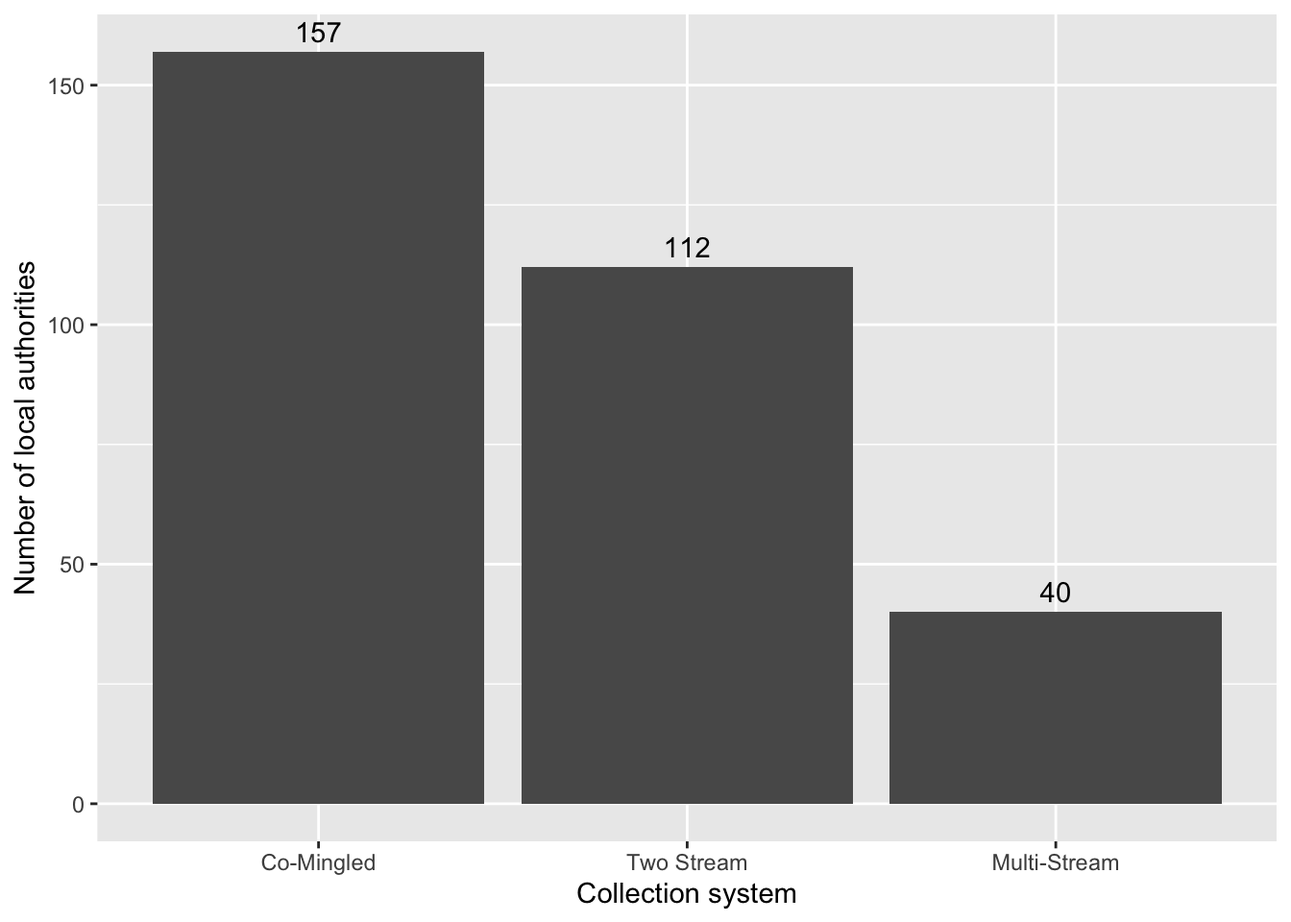
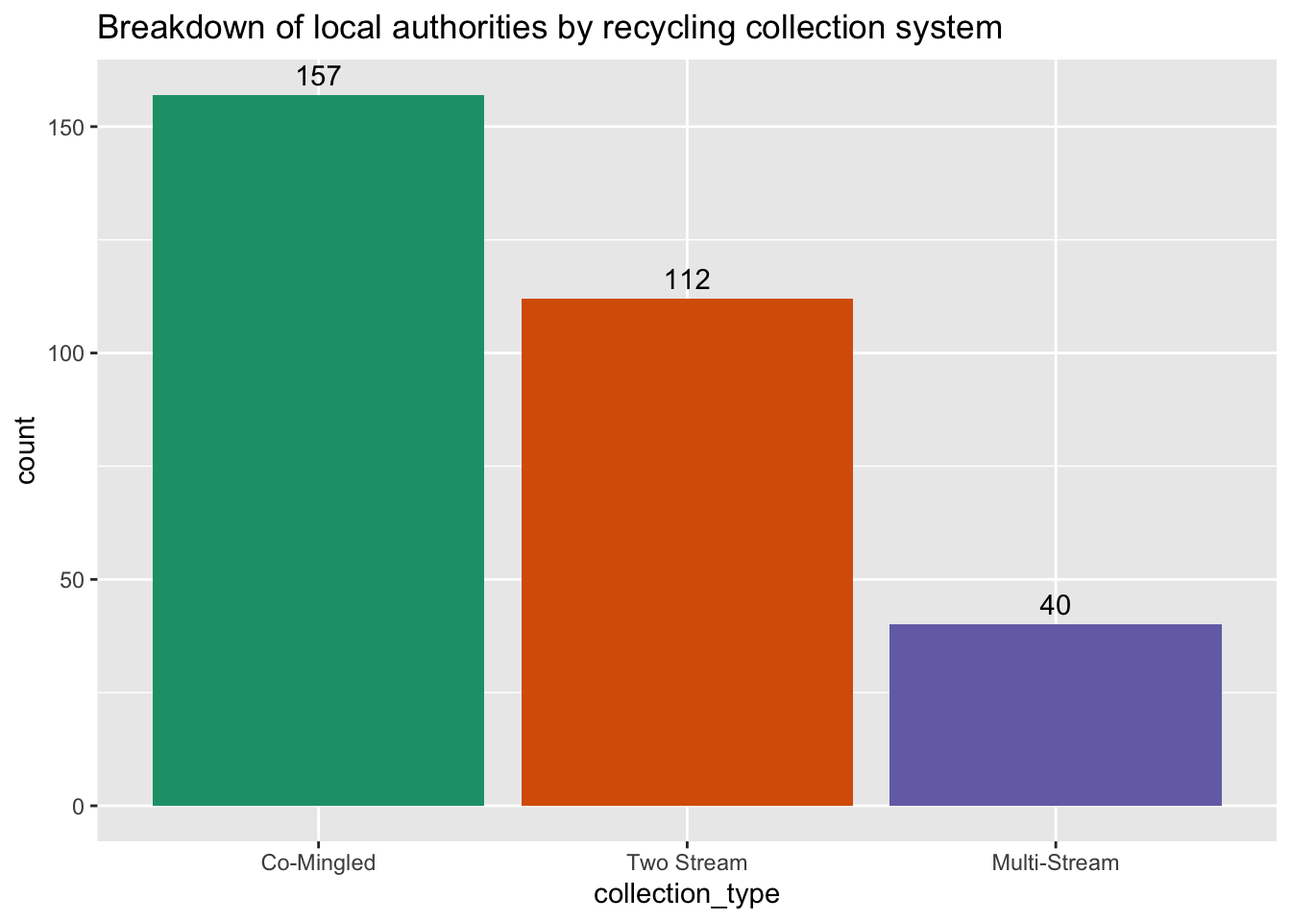
Complete draft analysis

diff --git a/recycling-systems-analysis.html b/recycling-systems-analysis.html
@@ -116,7 +116,7 @@ pre > code.sourceCode > span > a:first-child::before { text-decoration: underlin
 <ul>
 <li><strong>Co-Mingled:</strong> all non-organic recyclable material is put into a single bin by the householder</li>
 <li><strong>Two Stream:</strong> non-organic recyclable material must be sorted into two bins by the householder (e.g.&nbsp;one bin for glass and metal, and a second bin for paper, card and plastic)</li>
-<li><strong>Multi-stream:</strong> householders sort their non-organic recyclable material into separate bins for each type of material</li>
+<li><strong>Multi-Stream:</strong> householders sort their non-organic recyclable material into separate bins for each type of material</li>
 </ul>
 <p>Multi-stream systems place a higher burden on the householder, so this paper seeks to investigate whether this higher burden results in higher recycling rates.</p>
 </section>
@@ -127,9 +127,9 @@ pre > code.sourceCode > span > a:first-child::before { text-decoration: underlin
 <div class="cell">
 <div class="code-copy-outer-scaffold"><div class="sourceCode cell-code" id="cb1"><pre class="sourceCode r code-with-copy"><code class="sourceCode r"><span id="cb1-1"><a href="#cb1-1" aria-hidden="true" tabindex="-1"></a><span class="fu">library</span>(here)</span>
 <span id="cb1-2"><a href="#cb1-2" aria-hidden="true" tabindex="-1"></a><span class="fu">library</span>(tidyverse)</span>
-<span id="cb1-3"><a href="#cb1-3" aria-hidden="true" tabindex="-1"></a><span class="fu">library</span>(ggplot2)</span>
-<span id="cb1-4"><a href="#cb1-4" aria-hidden="true" tabindex="-1"></a><span class="fu">library</span>(ggridges)</span>
-<span id="cb1-5"><a href="#cb1-5" aria-hidden="true" tabindex="-1"></a><span class="fu">library</span>(knitr)</span></code></pre></div><button title="Copy to Clipboard" class="code-copy-button"><i class="bi"></i></button></div>
+<span id="cb1-3"><a href="#cb1-3" aria-hidden="true" tabindex="-1"></a><span class="fu">library</span>(knitr)</span>
+<span id="cb1-4"><a href="#cb1-4" aria-hidden="true" tabindex="-1"></a><span class="fu">library</span>(moments)</span>
+<span id="cb1-5"><a href="#cb1-5" aria-hidden="true" tabindex="-1"></a><span class="fu">library</span>(rstatix)</span></code></pre></div><button title="Copy to Clipboard" class="code-copy-button"><i class="bi"></i></button></div>
 </div>
 </section>
 <section id="import-the-recycling-data" class="level2">
@@ -165,13 +165,13 @@ $ household_recycle_rate &lt;dbl&gt; 0.3259759, 0.2975028, 0.3815194, 0.2565815,
 <h2 class="anchored" data-anchor-id="breakdown-of-collection-systems">Breakdown of collection systems</h2>
 <div class="cell">
 <div class="code-copy-outer-scaffold"><div class="sourceCode cell-code" id="cb4"><pre class="sourceCode r code-with-copy"><code class="sourceCode r"><span id="cb4-1"><a href="#cb4-1" aria-hidden="true" tabindex="-1"></a>fig_1 <span class="ot">&lt;-</span> </span>
-<span id="cb4-2"><a href="#cb4-2" aria-hidden="true" tabindex="-1"></a>  <span class="fu">ggplot</span>(recycling, <span class="fu">aes</span>(collection_type)) <span class="sc">+</span></span>
+<span id="cb4-2"><a href="#cb4-2" aria-hidden="true" tabindex="-1"></a>  <span class="fu">ggplot</span>(recycling, <span class="fu">aes</span>(collection_type, <span class="at">fill =</span> collection_type)) <span class="sc">+</span></span>
 <span id="cb4-3"><a href="#cb4-3" aria-hidden="true" tabindex="-1"></a>  <span class="fu">geom_bar</span>() <span class="sc">+</span></span>
 <span id="cb4-4"><a href="#cb4-4" aria-hidden="true" tabindex="-1"></a>  <span class="fu">geom_text</span>(<span class="at">stat =</span> <span class="st">"count"</span>, <span class="fu">aes</span>(<span class="at">label =</span> <span class="fu">after_stat</span>(count)), <span class="at">vjust =</span> <span class="sc">-</span><span class="fl">0.5</span>) <span class="sc">+</span></span>
 <span id="cb4-5"><a href="#cb4-5" aria-hidden="true" tabindex="-1"></a>  <span class="fu">labs</span>(</span>
-<span id="cb4-6"><a href="#cb4-6" aria-hidden="true" tabindex="-1"></a>    <span class="at">x =</span> <span class="st">"Collection system"</span>,</span>
-<span id="cb4-7"><a href="#cb4-7" aria-hidden="true" tabindex="-1"></a>    <span class="at">y =</span> <span class="st">"Number of local authorities"</span></span>
-<span id="cb4-8"><a href="#cb4-8" aria-hidden="true" tabindex="-1"></a>  )</span>
+<span id="cb4-6"><a href="#cb4-6" aria-hidden="true" tabindex="-1"></a>    <span class="at">title =</span> <span class="st">"Breakdown of local authorities by recycling collection system"</span></span>
+<span id="cb4-7"><a href="#cb4-7" aria-hidden="true" tabindex="-1"></a>  ) <span class="sc">+</span></span>
+<span id="cb4-8"><a href="#cb4-8" aria-hidden="true" tabindex="-1"></a>  <span class="fu">scale_fill_brewer</span>(<span class="at">palette =</span> <span class="st">"Dark2"</span>, <span class="at">guide =</span> <span class="st">"none"</span>)</span>
 <span id="cb4-9"><a href="#cb4-9" aria-hidden="true" tabindex="-1"></a></span>
 <span id="cb4-10"><a href="#cb4-10" aria-hidden="true" tabindex="-1"></a>fig_1</span></code></pre></div><button title="Copy to Clipboard" class="code-copy-button"><i class="bi"></i></button></div>
 <div class="cell-output-display">
@@ -188,23 +188,185 @@ $ household_recycle_rate &lt;dbl&gt; 0.3259759, 0.2975028, 0.3815194, 0.2565815,
 <h2 class="anchored" data-anchor-id="distribution-of-recycling-rates-by-system">Distribution of recycling rates by system</h2>
 <div class="cell">
 <div class="code-copy-outer-scaffold"><div class="sourceCode cell-code" id="cb5"><pre class="sourceCode r code-with-copy"><code class="sourceCode r"><span id="cb5-1"><a href="#cb5-1" aria-hidden="true" tabindex="-1"></a>fig_2 <span class="ot">&lt;-</span> </span>
-<span id="cb5-2"><a href="#cb5-2" aria-hidden="true" tabindex="-1"></a>  <span class="fu">ggplot</span>(recycling, <span class="fu">aes</span>(<span class="at">x =</span> collection_type, <span class="at">y =</span> household_recycle_rate)) <span class="sc">+</span></span>
-<span id="cb5-3"><a href="#cb5-3" aria-hidden="true" tabindex="-1"></a>  <span class="fu">geom_boxplot</span>(<span class="at">outlier.shape =</span> <span class="cn">NA</span>) <span class="sc">+</span></span>
-<span id="cb5-4"><a href="#cb5-4" aria-hidden="true" tabindex="-1"></a>  <span class="fu">geom_jitter</span>(<span class="at">width =</span> <span class="fl">0.2</span>, <span class="at">alpha =</span> <span class="fl">0.3</span>) <span class="sc">+</span></span>
-<span id="cb5-5"><a href="#cb5-5" aria-hidden="true" tabindex="-1"></a>  <span class="fu">stat_summary</span>(<span class="at">fun =</span> mean, <span class="at">geom =</span> <span class="st">"point"</span>, <span class="at">shape =</span> <span class="dv">18</span>, <span class="at">size =</span> <span class="dv">3</span>) <span class="sc">+</span></span>
-<span id="cb5-6"><a href="#cb5-6" aria-hidden="true" tabindex="-1"></a>  <span class="fu">labs</span>(<span class="at">x =</span> <span class="st">"Collection system"</span>, <span class="at">y =</span> <span class="st">"Household recycling rate"</span>) <span class="sc">+</span></span>
-<span id="cb5-7"><a href="#cb5-7" aria-hidden="true" tabindex="-1"></a>  <span class="fu">scale_y_continuous</span>(<span class="at">labels =</span> scales<span class="sc">::</span>percent)</span>
-<span id="cb5-8"><a href="#cb5-8" aria-hidden="true" tabindex="-1"></a></span>
-<span id="cb5-9"><a href="#cb5-9" aria-hidden="true" tabindex="-1"></a>fig_2</span></code></pre></div><button title="Copy to Clipboard" class="code-copy-button"><i class="bi"></i></button></div>
+<span id="cb5-2"><a href="#cb5-2" aria-hidden="true" tabindex="-1"></a>  <span class="fu">ggplot</span>(recycling, <span class="fu">aes</span>(<span class="at">x =</span> collection_type, <span class="at">y =</span> household_recycle_rate, <span class="at">colour =</span> collection_type)) <span class="sc">+</span></span>
+<span id="cb5-3"><a href="#cb5-3" aria-hidden="true" tabindex="-1"></a>  <span class="fu">labs</span>(</span>
+<span id="cb5-4"><a href="#cb5-4" aria-hidden="true" tabindex="-1"></a>    <span class="at">x =</span> <span class="st">"Collection type"</span>,</span>
+<span id="cb5-5"><a href="#cb5-5" aria-hidden="true" tabindex="-1"></a>    <span class="at">y =</span> <span class="st">"Household recycling rate"</span>,</span>
+<span id="cb5-6"><a href="#cb5-6" aria-hidden="true" tabindex="-1"></a>    <span class="at">title =</span> <span class="st">"Distribution of recycling rates by collection system"</span>,</span>
+<span id="cb5-7"><a href="#cb5-7" aria-hidden="true" tabindex="-1"></a>    <span class="at">caption =</span> <span class="st">"Box shows median and interquartile range; diamond shows the mean"</span></span>
+<span id="cb5-8"><a href="#cb5-8" aria-hidden="true" tabindex="-1"></a>  ) <span class="sc">+</span></span>
+<span id="cb5-9"><a href="#cb5-9" aria-hidden="true" tabindex="-1"></a>  <span class="fu">scale_y_continuous</span>(<span class="at">labels =</span> scales<span class="sc">::</span>percent) <span class="sc">+</span></span>
+<span id="cb5-10"><a href="#cb5-10" aria-hidden="true" tabindex="-1"></a>  <span class="fu">scale_color_brewer</span>(<span class="at">palette =</span> <span class="st">"Dark2"</span>, <span class="at">guide =</span> <span class="st">"none"</span>)</span>
+<span id="cb5-11"><a href="#cb5-11" aria-hidden="true" tabindex="-1"></a></span>
+<span id="cb5-12"><a href="#cb5-12" aria-hidden="true" tabindex="-1"></a>fig_2 <span class="sc">+</span></span>
+<span id="cb5-13"><a href="#cb5-13" aria-hidden="true" tabindex="-1"></a>  <span class="fu">geom_violin</span>(<span class="fu">aes</span>(<span class="at">fill =</span> collection_type), <span class="at">linewidth =</span> <span class="dv">1</span>, <span class="at">alpha =</span> <span class="fl">0.5</span>)<span class="sc">+</span></span>
+<span id="cb5-14"><a href="#cb5-14" aria-hidden="true" tabindex="-1"></a>  <span class="fu">geom_boxplot</span>(<span class="at">outlier.alpha =</span> <span class="dv">0</span>, <span class="at">coef =</span> <span class="dv">0</span>,</span>
+<span id="cb5-15"><a href="#cb5-15" aria-hidden="true" tabindex="-1"></a>               <span class="at">colour =</span> <span class="st">"grey40"</span>, <span class="at">width =</span> <span class="fl">0.2</span>) <span class="sc">+</span></span>
+<span id="cb5-16"><a href="#cb5-16" aria-hidden="true" tabindex="-1"></a>  <span class="fu">scale_fill_brewer</span>(<span class="at">palette =</span> <span class="st">"Dark2"</span>, <span class="at">guide =</span> <span class="st">"none"</span>) <span class="sc">+</span></span>
+<span id="cb5-17"><a href="#cb5-17" aria-hidden="true" tabindex="-1"></a>  <span class="fu">coord_flip</span>() <span class="sc">+</span></span>
+<span id="cb5-18"><a href="#cb5-18" aria-hidden="true" tabindex="-1"></a>  <span class="fu">stat_summary</span>(<span class="at">fun =</span> mean, <span class="at">geom =</span> <span class="st">"point"</span>, <span class="at">shape =</span> <span class="dv">18</span>, <span class="at">size =</span> <span class="dv">3</span>)</span></code></pre></div><button title="Copy to Clipboard" class="code-copy-button"><i class="bi"></i></button></div>
 <div class="cell-output-display">
 <div>
 <figure class="figure">
-<p><img src="recycling-systems-analysis_files/figure-html/box-plot-recycle-rates-1.png" class="img-fluid figure-img" width="672"></p>
+<p><img src="recycling-systems-analysis_files/figure-html/violin-plot-recycle-rates-1.png" class="img-fluid figure-img" width="672"></p>
 </figure>
 </div>
 </div>
 </div>
+<div class="cell">
+<div class="code-copy-outer-scaffold"><div class="sourceCode cell-code" id="cb6"><pre class="sourceCode r code-with-copy"><code class="sourceCode r"><span id="cb6-1"><a href="#cb6-1" aria-hidden="true" tabindex="-1"></a>tbl_1 <span class="ot">&lt;-</span> recycling <span class="sc">|&gt;</span> </span>
+<span id="cb6-2"><a href="#cb6-2" aria-hidden="true" tabindex="-1"></a>  <span class="fu">group_by</span>(collection_type) <span class="sc">|&gt;</span> </span>
+<span id="cb6-3"><a href="#cb6-3" aria-hidden="true" tabindex="-1"></a>  <span class="fu">summarise</span>(</span>
+<span id="cb6-4"><a href="#cb6-4" aria-hidden="true" tabindex="-1"></a>    <span class="at">mean =</span> <span class="fu">mean</span>(household_recycle_rate, <span class="at">na.rm =</span> <span class="cn">TRUE</span>),</span>
+<span id="cb6-5"><a href="#cb6-5" aria-hidden="true" tabindex="-1"></a>    <span class="at">median =</span> <span class="fu">median</span>(household_recycle_rate, <span class="at">na.rm =</span> <span class="cn">TRUE</span>),</span>
+<span id="cb6-6"><a href="#cb6-6" aria-hidden="true" tabindex="-1"></a>    <span class="at">sd =</span> <span class="fu">sd</span>(household_recycle_rate, <span class="at">na.rm =</span> <span class="cn">TRUE</span>),</span>
+<span id="cb6-7"><a href="#cb6-7" aria-hidden="true" tabindex="-1"></a>    <span class="at">skew =</span> <span class="fu">skewness</span>(household_recycle_rate)</span>
+<span id="cb6-8"><a href="#cb6-8" aria-hidden="true" tabindex="-1"></a>  )</span>
+<span id="cb6-9"><a href="#cb6-9" aria-hidden="true" tabindex="-1"></a></span>
+<span id="cb6-10"><a href="#cb6-10" aria-hidden="true" tabindex="-1"></a>tbl_1</span></code></pre></div><button title="Copy to Clipboard" class="code-copy-button"><i class="bi"></i></button></div>
+<div class="cell-output cell-output-stdout">
+<pre><code># A tibble: 3 × 5
+  collection_type  mean median     sd    skew
+  &lt;fct&gt;           &lt;dbl&gt;  &lt;dbl&gt;  &lt;dbl&gt;   &lt;dbl&gt;
+1 Co-Mingled      0.407  0.403 0.0992  0.215 
+2 Two Stream      0.432  0.443 0.0946 -0.129 
+3 Multi-Stream    0.454  0.445 0.0858 -0.0379</code></pre>
+</div>
+</div>
+<p>From the distribution plot and the summary table, we can see that multi-stream collection systems achieved the highest man and median recycling rate in 2021, and co-mingled systems achieved the lowest rates. The skew number tells us that the distributions are not normal. Co-mingled systems show a positive skew, while two stream and multi-stream both show a negative skew.</p>
 </section>
+<section id="distribution-of-household-waste-collected" class="level2">
+<h2 class="anchored" data-anchor-id="distribution-of-household-waste-collected">Distribution of household waste collected</h2>
+<p>Given that our measure of interest, <code>household_recycle_rate</code> is itself a calculation (<code>household_recycled</code>/<code>household_collected</code>) we should also check whether the distributions of the underlying components are normal or skewed.</p>
+<div class="cell">
+<div class="code-copy-outer-scaffold"><div class="sourceCode cell-code" id="cb8"><pre class="sourceCode r code-with-copy"><code class="sourceCode r"><span id="cb8-1"><a href="#cb8-1" aria-hidden="true" tabindex="-1"></a>fig_3 <span class="ot">&lt;-</span> </span>
+<span id="cb8-2"><a href="#cb8-2" aria-hidden="true" tabindex="-1"></a>  <span class="fu">ggplot</span>(recycling, <span class="fu">aes</span>(<span class="at">x =</span> collection_type, <span class="at">y =</span> household_collected, <span class="at">colour =</span> collection_type)) <span class="sc">+</span></span>
+<span id="cb8-3"><a href="#cb8-3" aria-hidden="true" tabindex="-1"></a>  <span class="fu">labs</span>(</span>
+<span id="cb8-4"><a href="#cb8-4" aria-hidden="true" tabindex="-1"></a>    <span class="at">x =</span> <span class="st">"Collection type"</span>,</span>
+<span id="cb8-5"><a href="#cb8-5" aria-hidden="true" tabindex="-1"></a>    <span class="at">y =</span> <span class="st">"Household waste collected"</span>,</span>
+<span id="cb8-6"><a href="#cb8-6" aria-hidden="true" tabindex="-1"></a>    <span class="at">title =</span> <span class="st">"Distribution of household waste collected by collection system"</span>,</span>
+<span id="cb8-7"><a href="#cb8-7" aria-hidden="true" tabindex="-1"></a>    <span class="at">caption =</span> <span class="st">"Box shows median and interquartile range; diamond shows the mean"</span></span>
+<span id="cb8-8"><a href="#cb8-8" aria-hidden="true" tabindex="-1"></a>  ) <span class="sc">+</span></span>
+<span id="cb8-9"><a href="#cb8-9" aria-hidden="true" tabindex="-1"></a>  <span class="fu">scale_color_brewer</span>(<span class="at">palette =</span> <span class="st">"Dark2"</span>, <span class="at">guide =</span> <span class="st">"none"</span>)</span>
+<span id="cb8-10"><a href="#cb8-10" aria-hidden="true" tabindex="-1"></a></span>
+<span id="cb8-11"><a href="#cb8-11" aria-hidden="true" tabindex="-1"></a>fig_3 <span class="sc">+</span></span>
+<span id="cb8-12"><a href="#cb8-12" aria-hidden="true" tabindex="-1"></a>  <span class="fu">geom_violin</span>(<span class="fu">aes</span>(<span class="at">fill =</span> collection_type), <span class="at">linewidth =</span> <span class="dv">1</span>, <span class="at">alpha =</span> <span class="fl">0.5</span>)<span class="sc">+</span></span>
+<span id="cb8-13"><a href="#cb8-13" aria-hidden="true" tabindex="-1"></a>  <span class="fu">geom_boxplot</span>(<span class="at">outlier.alpha =</span> <span class="dv">0</span>, <span class="at">coef =</span> <span class="dv">0</span>,</span>
+<span id="cb8-14"><a href="#cb8-14" aria-hidden="true" tabindex="-1"></a>               <span class="at">colour =</span> <span class="st">"grey40"</span>, <span class="at">width =</span> <span class="fl">0.2</span>) <span class="sc">+</span></span>
+<span id="cb8-15"><a href="#cb8-15" aria-hidden="true" tabindex="-1"></a>  <span class="fu">scale_fill_brewer</span>(<span class="at">palette =</span> <span class="st">"Dark2"</span>, <span class="at">guide =</span> <span class="st">"none"</span>) <span class="sc">+</span></span>
+<span id="cb8-16"><a href="#cb8-16" aria-hidden="true" tabindex="-1"></a>  <span class="fu">coord_flip</span>() <span class="sc">+</span></span>
+<span id="cb8-17"><a href="#cb8-17" aria-hidden="true" tabindex="-1"></a>  <span class="fu">stat_summary</span>(<span class="at">fun =</span> mean, <span class="at">geom =</span> <span class="st">"point"</span>, <span class="at">shape =</span> <span class="dv">18</span>, <span class="at">size =</span> <span class="dv">3</span>)</span></code></pre></div><button title="Copy to Clipboard" class="code-copy-button"><i class="bi"></i></button></div>
+<div class="cell-output-display">
+<div>
+<figure class="figure">
+<p><img src="recycling-systems-analysis_files/figure-html/violin-plot-household-collected-1.png" class="img-fluid figure-img" width="672"></p>
+</figure>
+</div>
+</div>
+</div>
+<div class="cell">
+<div class="code-copy-outer-scaffold"><div class="sourceCode cell-code" id="cb9"><pre class="sourceCode r code-with-copy"><code class="sourceCode r"><span id="cb9-1"><a href="#cb9-1" aria-hidden="true" tabindex="-1"></a>tbl_2 <span class="ot">&lt;-</span> recycling <span class="sc">|&gt;</span> </span>
+<span id="cb9-2"><a href="#cb9-2" aria-hidden="true" tabindex="-1"></a>  <span class="fu">group_by</span>(collection_type) <span class="sc">|&gt;</span> </span>
+<span id="cb9-3"><a href="#cb9-3" aria-hidden="true" tabindex="-1"></a>  <span class="fu">summarise</span>(</span>
+<span id="cb9-4"><a href="#cb9-4" aria-hidden="true" tabindex="-1"></a>    <span class="at">mean =</span> <span class="fu">mean</span>(household_collected, <span class="at">na.rm =</span> <span class="cn">TRUE</span>),</span>
+<span id="cb9-5"><a href="#cb9-5" aria-hidden="true" tabindex="-1"></a>    <span class="at">median =</span> <span class="fu">median</span>(household_collected, <span class="at">na.rm =</span> <span class="cn">TRUE</span>),</span>
+<span id="cb9-6"><a href="#cb9-6" aria-hidden="true" tabindex="-1"></a>    <span class="at">sd =</span> <span class="fu">sd</span>(household_collected, <span class="at">na.rm =</span> <span class="cn">TRUE</span>),</span>
+<span id="cb9-7"><a href="#cb9-7" aria-hidden="true" tabindex="-1"></a>    <span class="at">skew =</span> <span class="fu">skewness</span>(household_collected)</span>
+<span id="cb9-8"><a href="#cb9-8" aria-hidden="true" tabindex="-1"></a>  )</span>
+<span id="cb9-9"><a href="#cb9-9" aria-hidden="true" tabindex="-1"></a></span>
+<span id="cb9-10"><a href="#cb9-10" aria-hidden="true" tabindex="-1"></a>tbl_2</span></code></pre></div><button title="Copy to Clipboard" class="code-copy-button"><i class="bi"></i></button></div>
+<div class="cell-output cell-output-stdout">
+<pre><code># A tibble: 3 × 5
+  collection_type   mean median     sd  skew
+  &lt;fct&gt;            &lt;dbl&gt;  &lt;dbl&gt;  &lt;dbl&gt; &lt;dbl&gt;
+1 Co-Mingled      69017.  54330 45496.  1.96
+2 Two Stream      81701.  56376 64917.  2.30
+3 Multi-Stream    68661.  50222 50778.  2.20</code></pre>
+</div>
+</div>
+<p>Here, we see that the underlying data is much more heavily skewed than the resulting calculation of recycling rate. All three collection systems show positive skew, meaning that there is a long tail of local authorities collecting high volumes of waste.</p>
+</section>
+<section id="distribution-of-household-waste-recycled" class="level2">
+<h2 class="anchored" data-anchor-id="distribution-of-household-waste-recycled">Distribution of household waste recycled</h2>
+<div class="cell">
+<div class="code-copy-outer-scaffold"><div class="sourceCode cell-code" id="cb11"><pre class="sourceCode r code-with-copy"><code class="sourceCode r"><span id="cb11-1"><a href="#cb11-1" aria-hidden="true" tabindex="-1"></a>fig_4 <span class="ot">&lt;-</span> </span>
+<span id="cb11-2"><a href="#cb11-2" aria-hidden="true" tabindex="-1"></a>  <span class="fu">ggplot</span>(recycling, <span class="fu">aes</span>(<span class="at">x =</span> collection_type, <span class="at">y =</span> household_recycled, <span class="at">colour =</span> collection_type)) <span class="sc">+</span></span>
+<span id="cb11-3"><a href="#cb11-3" aria-hidden="true" tabindex="-1"></a>  <span class="fu">labs</span>(</span>
+<span id="cb11-4"><a href="#cb11-4" aria-hidden="true" tabindex="-1"></a>    <span class="at">x =</span> <span class="st">"Collection type"</span>,</span>
+<span id="cb11-5"><a href="#cb11-5" aria-hidden="true" tabindex="-1"></a>    <span class="at">y =</span> <span class="st">"Household waste recycled"</span>,</span>
+<span id="cb11-6"><a href="#cb11-6" aria-hidden="true" tabindex="-1"></a>    <span class="at">title =</span> <span class="st">"Distribution of household waste recycled by collection system"</span>,</span>
+<span id="cb11-7"><a href="#cb11-7" aria-hidden="true" tabindex="-1"></a>    <span class="at">caption =</span> <span class="st">"Box shows median and interquartile range; diamond shows the mean"</span></span>
+<span id="cb11-8"><a href="#cb11-8" aria-hidden="true" tabindex="-1"></a>  ) <span class="sc">+</span></span>
+<span id="cb11-9"><a href="#cb11-9" aria-hidden="true" tabindex="-1"></a>  <span class="fu">scale_color_brewer</span>(<span class="at">palette =</span> <span class="st">"Dark2"</span>, <span class="at">guide =</span> <span class="st">"none"</span>)</span>
+<span id="cb11-10"><a href="#cb11-10" aria-hidden="true" tabindex="-1"></a></span>
+<span id="cb11-11"><a href="#cb11-11" aria-hidden="true" tabindex="-1"></a>fig_4 <span class="sc">+</span></span>
+<span id="cb11-12"><a href="#cb11-12" aria-hidden="true" tabindex="-1"></a>  <span class="fu">geom_violin</span>(<span class="fu">aes</span>(<span class="at">fill =</span> collection_type), <span class="at">linewidth =</span> <span class="dv">1</span>, <span class="at">alpha =</span> <span class="fl">0.5</span>)<span class="sc">+</span></span>
+<span id="cb11-13"><a href="#cb11-13" aria-hidden="true" tabindex="-1"></a>  <span class="fu">geom_boxplot</span>(<span class="at">outlier.alpha =</span> <span class="dv">0</span>, <span class="at">coef =</span> <span class="dv">0</span>,</span>
+<span id="cb11-14"><a href="#cb11-14" aria-hidden="true" tabindex="-1"></a>               <span class="at">colour =</span> <span class="st">"grey40"</span>, <span class="at">width =</span> <span class="fl">0.2</span>) <span class="sc">+</span></span>
+<span id="cb11-15"><a href="#cb11-15" aria-hidden="true" tabindex="-1"></a>  <span class="fu">scale_fill_brewer</span>(<span class="at">palette =</span> <span class="st">"Dark2"</span>, <span class="at">guide =</span> <span class="st">"none"</span>) <span class="sc">+</span></span>
+<span id="cb11-16"><a href="#cb11-16" aria-hidden="true" tabindex="-1"></a>  <span class="fu">coord_flip</span>() <span class="sc">+</span></span>
+<span id="cb11-17"><a href="#cb11-17" aria-hidden="true" tabindex="-1"></a>  <span class="fu">stat_summary</span>(<span class="at">fun =</span> mean, <span class="at">geom =</span> <span class="st">"point"</span>, <span class="at">shape =</span> <span class="dv">18</span>, <span class="at">size =</span> <span class="dv">3</span>)</span></code></pre></div><button title="Copy to Clipboard" class="code-copy-button"><i class="bi"></i></button></div>
+<div class="cell-output-display">
+<div>
+<figure class="figure">
+<p><img src="recycling-systems-analysis_files/figure-html/violin-plot-household-recycled-1.png" class="img-fluid figure-img" width="672"></p>
+</figure>
+</div>
+</div>
+</div>
+<div class="cell">
+<div class="code-copy-outer-scaffold"><div class="sourceCode cell-code" id="cb12"><pre class="sourceCode r code-with-copy"><code class="sourceCode r"><span id="cb12-1"><a href="#cb12-1" aria-hidden="true" tabindex="-1"></a>tbl_3 <span class="ot">&lt;-</span> recycling <span class="sc">|&gt;</span> </span>
+<span id="cb12-2"><a href="#cb12-2" aria-hidden="true" tabindex="-1"></a>  <span class="fu">group_by</span>(collection_type) <span class="sc">|&gt;</span> </span>
+<span id="cb12-3"><a href="#cb12-3" aria-hidden="true" tabindex="-1"></a>  <span class="fu">summarise</span>(</span>
+<span id="cb12-4"><a href="#cb12-4" aria-hidden="true" tabindex="-1"></a>    <span class="at">mean =</span> <span class="fu">mean</span>(household_recycled, <span class="at">na.rm =</span> <span class="cn">TRUE</span>),</span>
+<span id="cb12-5"><a href="#cb12-5" aria-hidden="true" tabindex="-1"></a>    <span class="at">median =</span> <span class="fu">median</span>(household_recycled, <span class="at">na.rm =</span> <span class="cn">TRUE</span>),</span>
+<span id="cb12-6"><a href="#cb12-6" aria-hidden="true" tabindex="-1"></a>    <span class="at">sd =</span> <span class="fu">sd</span>(household_recycled, <span class="at">na.rm =</span> <span class="cn">TRUE</span>),</span>
+<span id="cb12-7"><a href="#cb12-7" aria-hidden="true" tabindex="-1"></a>    <span class="at">skew =</span> <span class="fu">skewness</span>(household_recycled)</span>
+<span id="cb12-8"><a href="#cb12-8" aria-hidden="true" tabindex="-1"></a>  )</span>
+<span id="cb12-9"><a href="#cb12-9" aria-hidden="true" tabindex="-1"></a></span>
+<span id="cb12-10"><a href="#cb12-10" aria-hidden="true" tabindex="-1"></a>tbl_3</span></code></pre></div><button title="Copy to Clipboard" class="code-copy-button"><i class="bi"></i></button></div>
+<div class="cell-output cell-output-stdout">
+<pre><code># A tibble: 3 × 5
+  collection_type   mean median     sd  skew
+  &lt;fct&gt;            &lt;dbl&gt;  &lt;dbl&gt;  &lt;dbl&gt; &lt;dbl&gt;
+1 Co-Mingled      27397. 22379  18917.  2.34
+2 Two Stream      35663. 24326. 30792.  2.30
+3 Multi-Stream    30769. 24156  22197.  1.64</code></pre>
+</div>
+</div>
+<p>Again, we see that the underlying data is much more heavily skewed than the resulting calculation of recycling rate. All three collection systems show positive skew, meaning that there is a long tail of local authorities recycling high volumes of waste.</p>
+</section>
+</section>
+<section id="test-for-significance" class="level1">
+<h1>Test for significance</h1>
+<p>The default statistical test would be a one-way ANOVA, which compares group means. But ANOVA assumes each group is roughly normally distributed with similar variance, and our groups are uneven (157 / 112 / 40) and somewhat skewed, as shown above. Instead, we will use the Kruskal-Wallis test: the non-parametric equivalent. It works on the ranks of the values instead of the raw values, so it makes no assumption about the shape of the distribution, and it handles unequal group sizes comfortably. It tests whether at least one group tends to sit higher than the others.</p>
+<div class="cell">
+<div class="code-copy-outer-scaffold"><div class="sourceCode cell-code" id="cb14"><pre class="sourceCode r code-with-copy"><code class="sourceCode r"><span id="cb14-1"><a href="#cb14-1" aria-hidden="true" tabindex="-1"></a><span class="co"># Run the KW test for recycling rate as explained by collection type</span></span>
+<span id="cb14-2"><a href="#cb14-2" aria-hidden="true" tabindex="-1"></a><span class="fu">kruskal.test</span>(household_recycle_rate <span class="sc">~</span> collection_type, <span class="at">data =</span> recycling)</span></code></pre></div><button title="Copy to Clipboard" class="code-copy-button"><i class="bi"></i></button></div>
+<div class="cell-output cell-output-stdout">
+<pre><code>
+    Kruskal-Wallis rank sum test
+
+data:  household_recycle_rate by collection_type
+Kruskal-Wallis chi-squared = 9.8269, df = 2, p-value = 0.007347</code></pre>
+</div>
+</div>
+<p>The p-value is below 0.05, which indicates a significant effect. However, a p-value only tells us whether there is an effect, not how big it is. With 309 authorities, even a trivial difference can come out significant. Our question asks about a meaningful impact, so we need an effect size, which measures how much of the variation in recycling rates is explained by collection system.</p>
+<div class="cell">
+<div class="code-copy-outer-scaffold"><div class="sourceCode cell-code" id="cb16"><pre class="sourceCode r code-with-copy"><code class="sourceCode r"><span id="cb16-1"><a href="#cb16-1" aria-hidden="true" tabindex="-1"></a>recycling <span class="sc">|&gt;</span> </span>
+<span id="cb16-2"><a href="#cb16-2" aria-hidden="true" tabindex="-1"></a>  <span class="fu">kruskal_effsize</span>(household_recycle_rate <span class="sc">~</span> collection_type)</span></code></pre></div><button title="Copy to Clipboard" class="code-copy-button"><i class="bi"></i></button></div>
+<div class="cell-output cell-output-stdout">
+<pre><code># A tibble: 1 × 5
+  .y.                        n effsize method  magnitude
+* &lt;chr&gt;                  &lt;int&gt;   &lt;dbl&gt; &lt;chr&gt;   &lt;ord&gt;    
+1 household_recycle_rate   309  0.0256 eta2[H] small    </code></pre>
+</div>
+</div>
+<p>This test shows us that while collection type does have a real effect on recycling rates, the effect size is small.</p>
+</section>
+<section id="conclusion" class="level1">
+<h1>Conclusion</h1>
+<p>Using the 2021 recycling data for English local authorities, we have shown that collection systems that put higher burden on the householder to sort their waste into separate streams do achieve higher recycling rates. However, the effect of the collection system is small. Therefore, it would not be fair to conclude that the burden of effort on the householder is worth it. That being said, there are other reasons that a local authority may choose a multi-stream system over a co-mingled one. The lack of a Materials Recovery Facility, where co-mingled waste can be sorted by machine, may force certain LAs to opt for kerbside sort.</p>
 </section>
 
 </main>
